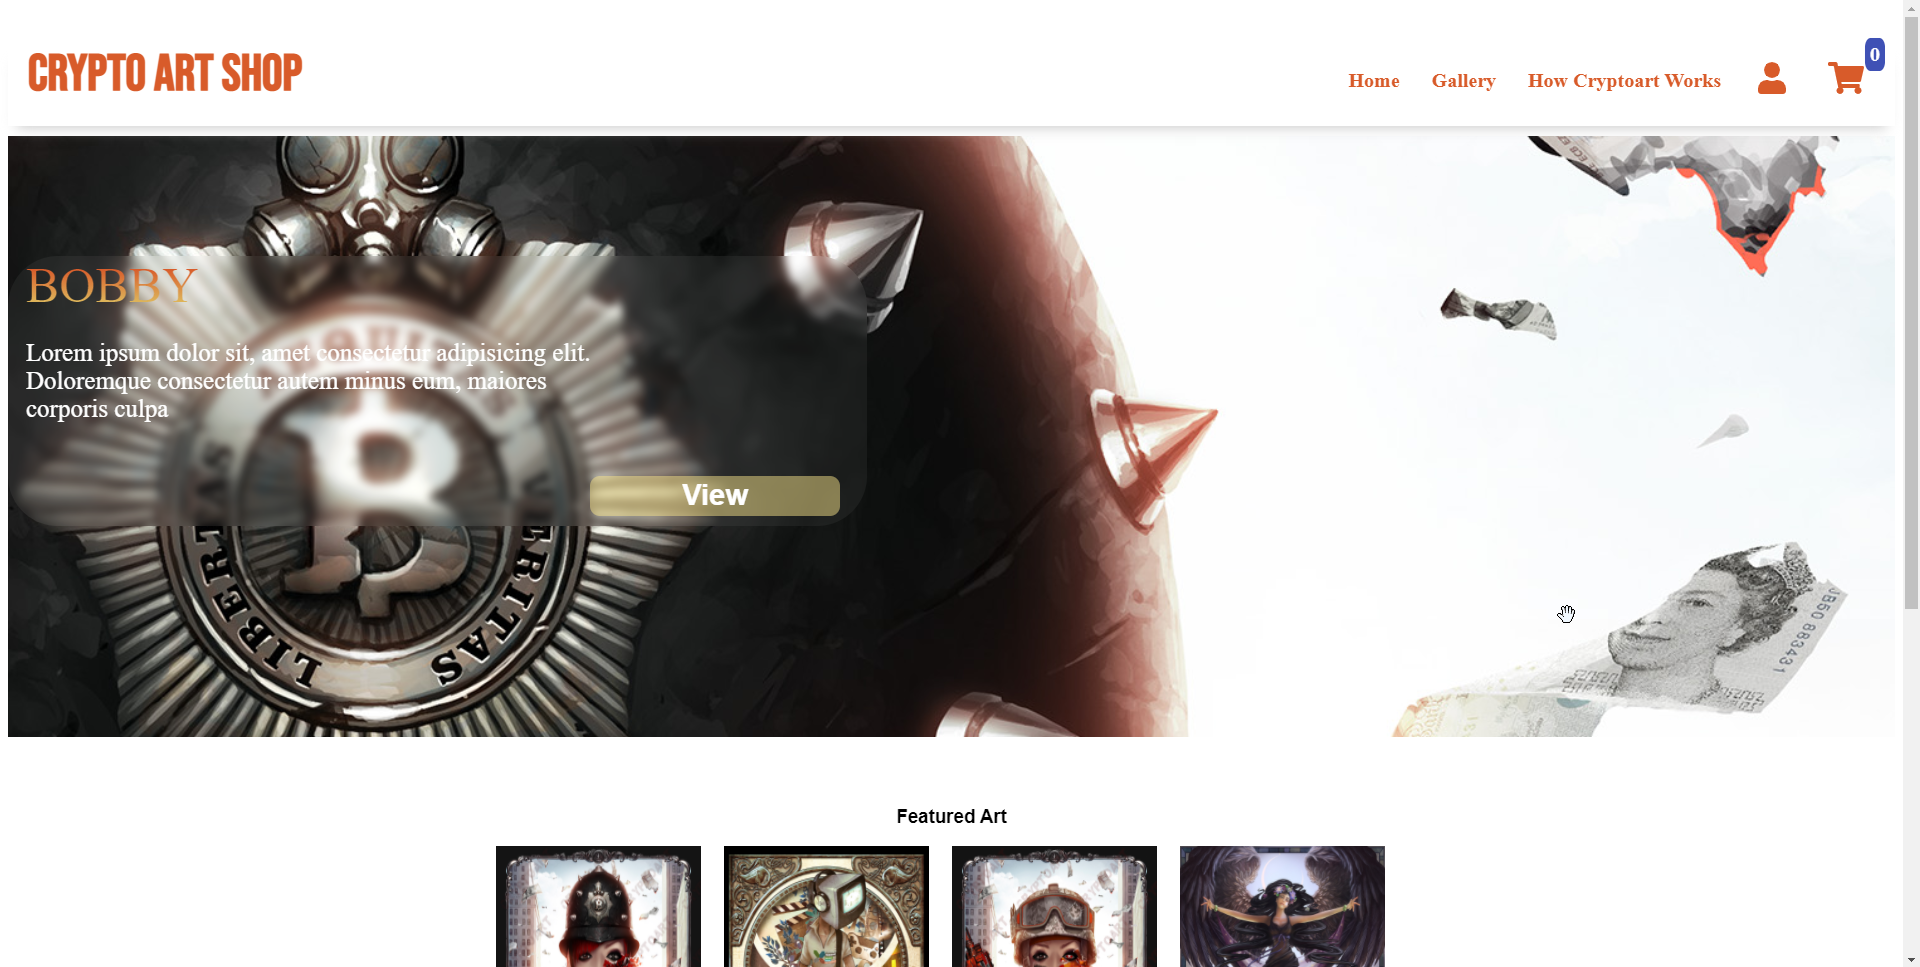
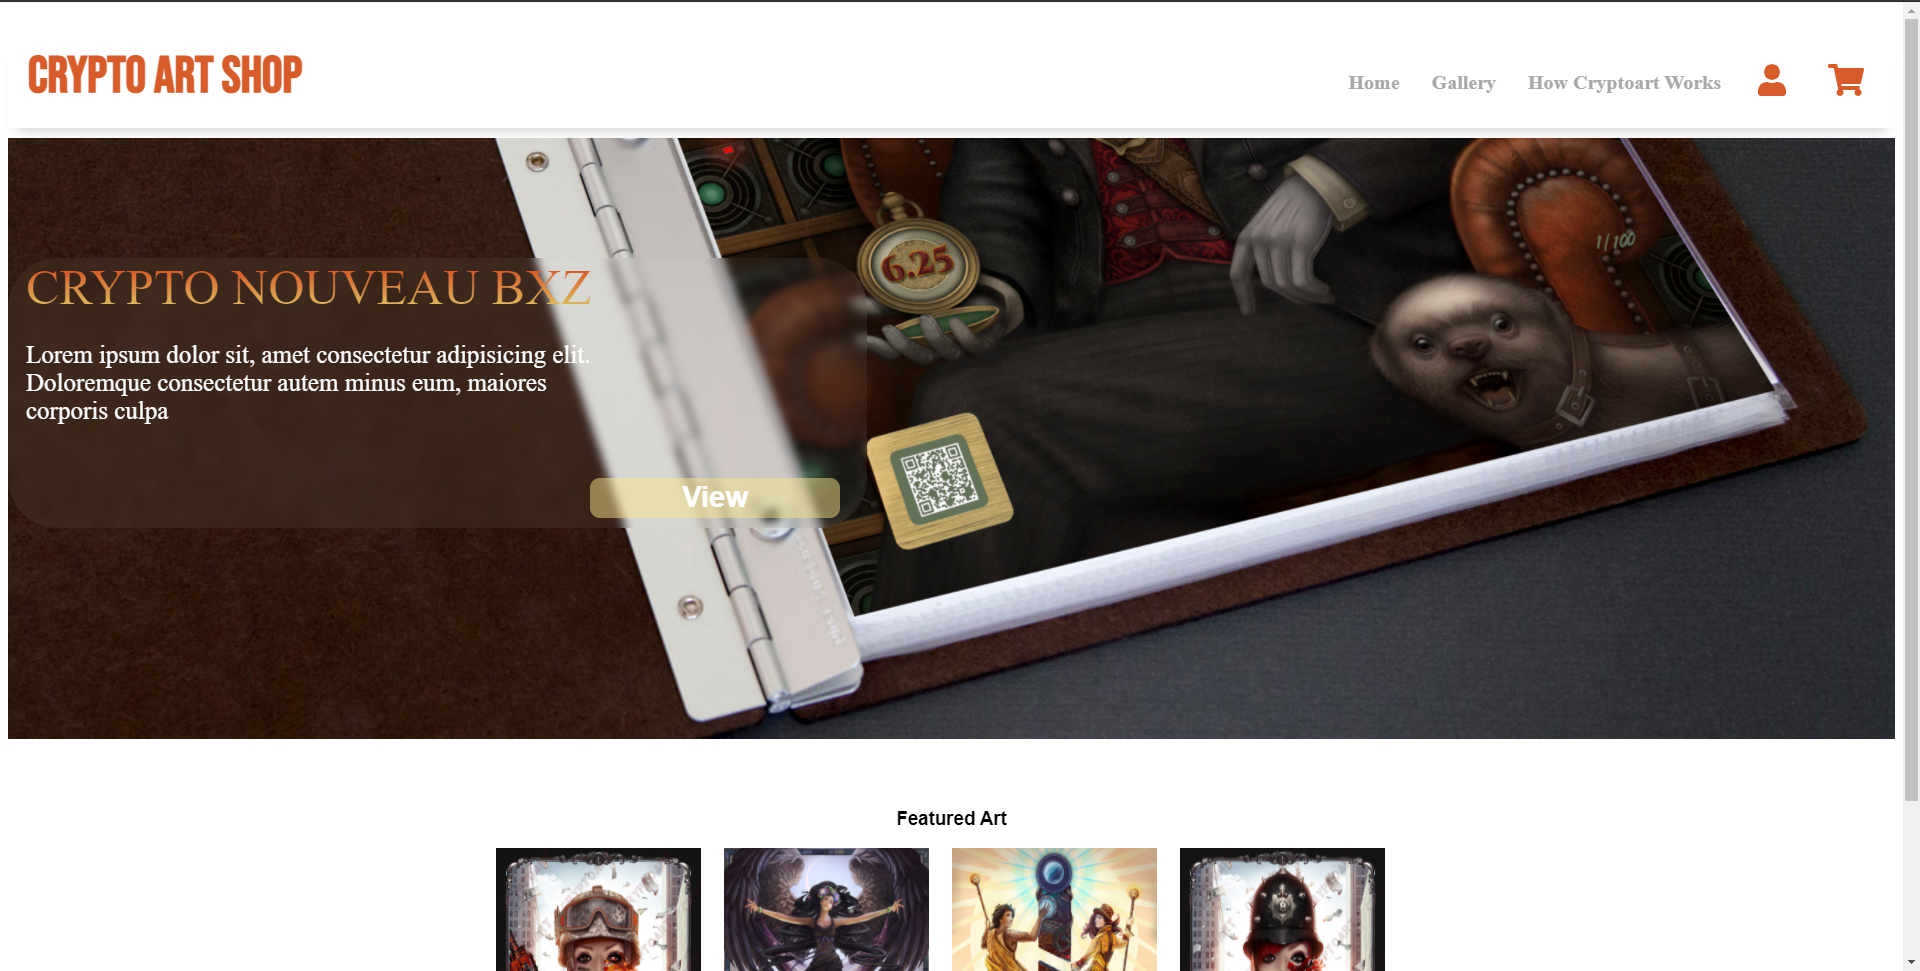
update the read me file and imgs

diff --git a/README.md b/README.md
@@ -1,14 +1,24 @@
 # Cryto Art Shop
 
-**Work in Progress**
-
 I am currently developing a full stack ecommerce application, inspired by crypto art.
+
+## tech
+
+```
+React
+TypeScript
+Redux Thunk
+SCSS
+Node.js
+Express
+```
 
 ## Pages
 
 ```
 Home
 Product Page
+Gallery
 ```
 
 ## Images
@@ -28,21 +38,3 @@ This script starts up the express server on http://localhost:1234/
 ### `npm run dev`
 
 This script starts up the React front end
-
-### `npm run build`
-
-Builds the app for production to the `build` folder.\
-It correctly bundles React in production mode and optimizes the build for the best performance.
-
-The build is minified and the filenames include the hashes.\
-Your app is ready to be deployed!
-
-### `npm run eject`
-
-**Note: this is a one-way operation. Once you `eject`, you can’t go back!**
-
-If you aren’t satisfied with the build tool and configuration choices, you can `eject` at any time. This command will remove the single build dependency from your project.
-
-Instead, it will copy all the configuration files and the transitive dependencies (webpack, Babel, ESLint, etc) right into your project so you have full control over them. All of the commands except `eject` will still work, but they will point to the copied scripts so you can tweak them. At this point you’re on your own.
-
-You don’t have to ever use `eject`. The curated feature set is suitable for small and middle deployments, and you shouldn’t feel obligated to use this feature. However we understand that this tool wouldn’t be useful if you couldn’t customize it when you are ready for it.
